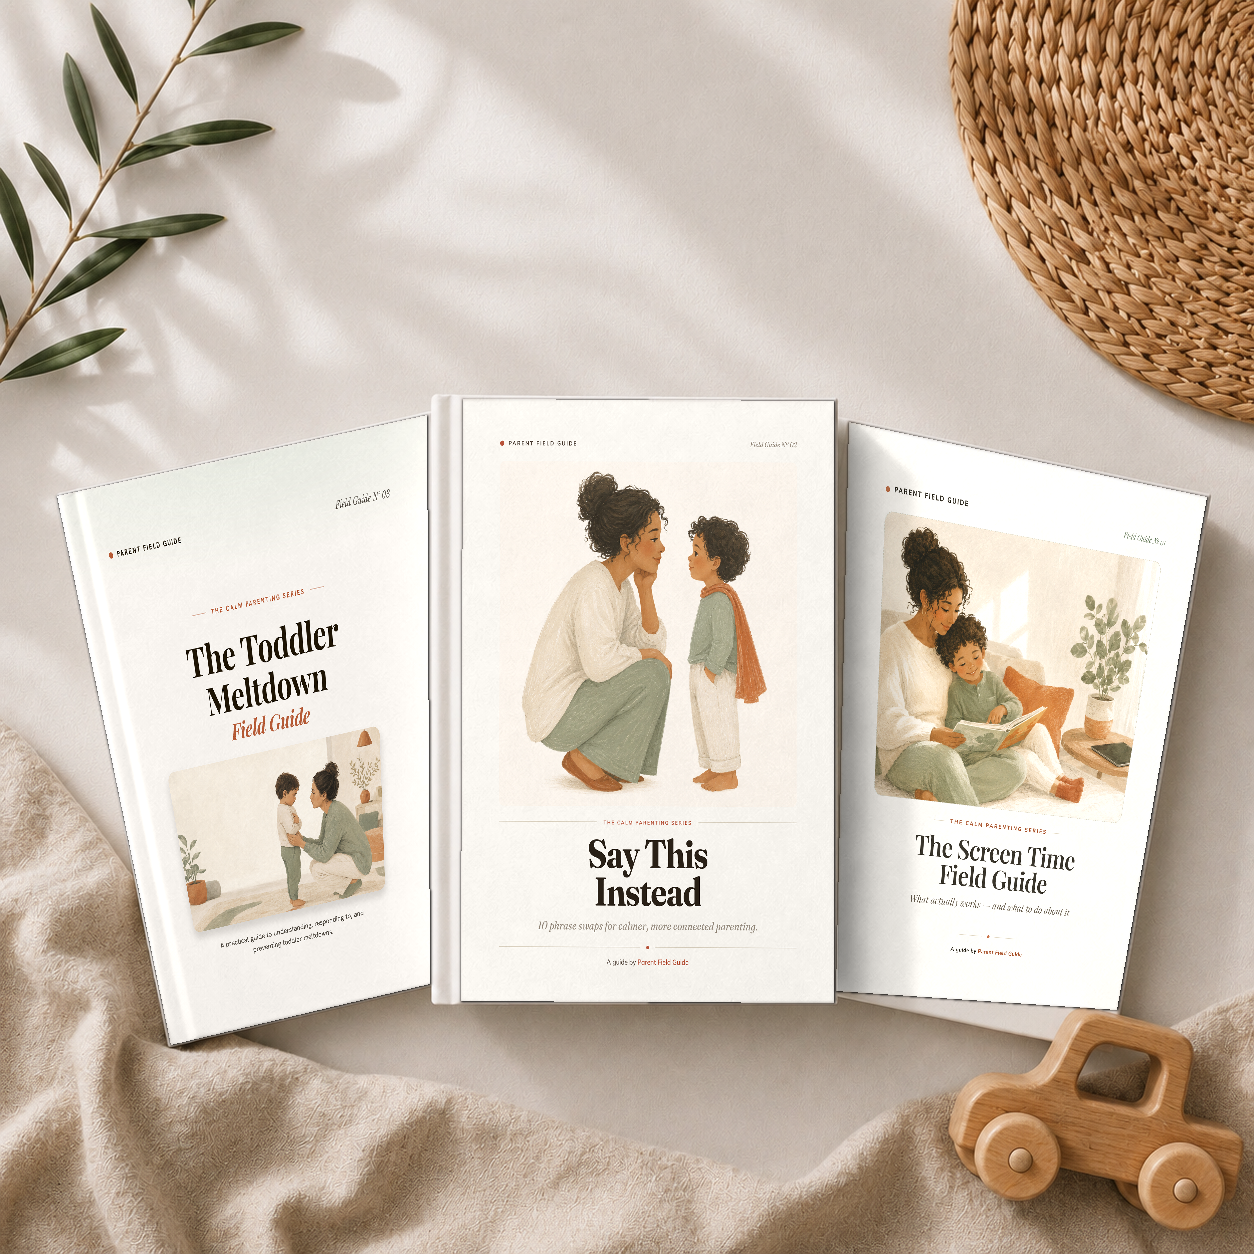
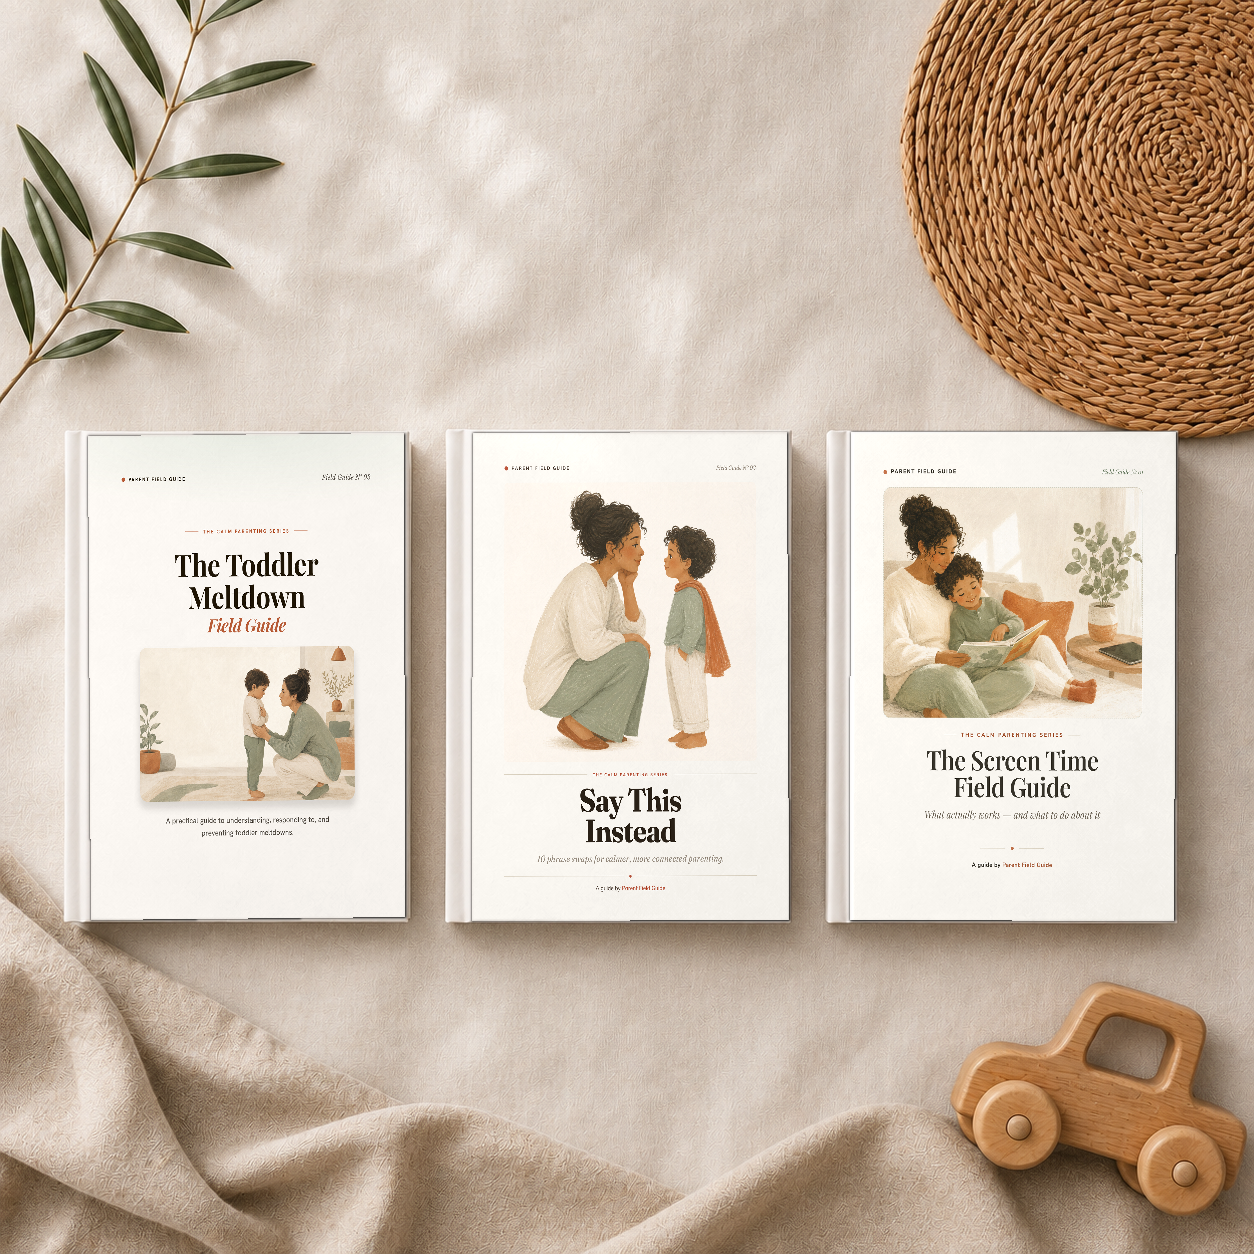
Switch to flat parallel-books reference photo
Use the new straight-on reference photo (source2.png) instead of the
fanned layout, with corner coordinates re-derived via contour
detection. Re-run the composite with the three real covers.

Claude-Session: https://claude.ai/code/session_01L4CJjayjXP8NRYywwuLZMK

diff --git a/cover-mockup/compose.py b/cover-mockup/compose.py
@@ -1,16 +1,16 @@
-"""Warp cover artwork onto the three blank books in reference/source.png,
+"""Warp cover artwork onto the three blank books in reference/source2.png,
 preserving the photo's original lighting/shadow via a multiply-blend shading map."""
 import sys
 from PIL import Image, ImageDraw, ImageFilter
 import numpy as np
 
-SOURCE = "reference/source.png"
+SOURCE = "reference/source2.png"
 
 # top-left, top-right, bottom-right, bottom-left corners of each book's front cover face
 BOOKS = {
-    "left":   [(57, 496), (427, 415), (430, 984), (171, 1045)],
-    "center": [(463, 399), (834, 401), (834, 1003), (461, 1001)],
-    "right":  [(849, 422), (1207, 497), (1117, 1010), (836, 991)],
+    "left":   [(88, 436), (404, 433), (405, 917), (91, 920)],
+    "center": [(473, 433), (787, 432), (789, 920), (472, 921)],
+    "right":  [(851, 432), (1176, 432), (1174, 921), (850, 920)],
 }
 
 
